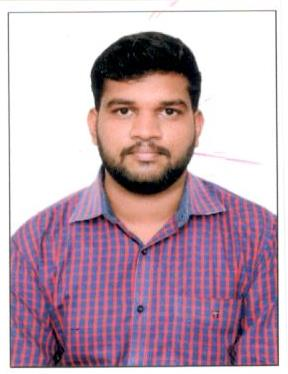
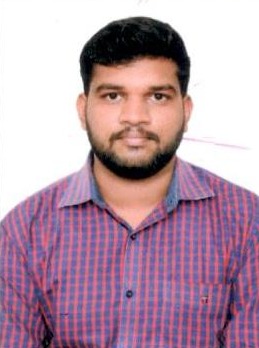
Update Profile

diff --git a/index.html b/index.html
@@ -11,9 +11,15 @@
 		<div class="hero">
 			<h1 class="name"><strong>Srikanth</strong> Mokkapati</h1>
 			<span class="job-title">Backend Developer</span>
-            <span class="email">srikanth.mokkapati9@gmail.com</span>
-            <!-- <img class="iconDetails" src="image.png" alt="Avatar"/> -->
-			<h2 class="lead">Java and Python Backend Developer mainly working on REST APIs driven Microservices</h2>
+			<span class="email">srikanth.mokkapati9@gmail.com</span>
+			<span class="middle-container">
+				<span>
+					<h2 class="lead">Java and Python Backend Developer mainly working on REST APIs driven Microservices</h2>
+				</span>
+				<span>
+					<img class="iconDetails" src="image.png" alt="Avatar"/>
+				</span>
+			</span>
         </div>
 	</div>
 
@@ -26,7 +32,7 @@
 			<div class="list-card">
 				<span class="exp">+ 2 years</span>
 				<div>
-					<h3>Object programming & frameworks</h3>
+					<h3>Programming Languages & Frameworks</h3>
 					<span>Java, Python, Spring MVC/SpringBoot, Django Rest Framework, …</span>
 				</div>
 			</div>
@@ -54,7 +60,7 @@
 				
 				<div class="list-card">
 					<div>
-						<h3>Languages and Scripting</h3>
+						<h3>Scripting</h3>
 						<span>Java, Python and Bash</span>
 					</div>
 				</div>	
@@ -68,7 +74,7 @@
                 
                 <div class="list-card">
 					<div>
-						<h3>Async</h3>
+						<h3>Async Programming</h3>
 						<span>Scheduled and Triggered Jobs, Async APIs and Servers (ASGI)</span>
 					</div>
 				</div>
@@ -81,12 +87,12 @@
 		
 		<div class="card">
 			<div class="skill-level">
-                <h2>2</h2>
+                <h2>2</h6></h2>
                 <span>+</span>
 			</div>
 
 			<div class="skill-meta">
-				<h3>IT Experience</h3>
+				<h3>Years IT Experience</h3>
 				<span>Adapting and creating solutions for Customer's needs</span>
 			</div>
 		</div>

diff --git a/styles.css b/styles.css
@@ -90,11 +90,11 @@ div , footer {
 .container {
 	max-width: 1100px;
 	height: auto;
-	margin: 60px auto;
+	margin: 30px auto;
 }
 
 .hero {
-	margin: 50px auto; 
+	margin: 30px auto; 
 	position: relative;
 }
 
@@ -120,22 +120,40 @@ h1.name {
 	display: block;
 	font-size: 24px;
 	font-weight: 300;
-	color: #81899C;
+	color: #5f6572;
 	margin-top: 10px;
 }
 
-.lead {
-	font-size: 44px;
-	font-weight: 300;
-	margin-top: 60px;
-	line-height: 55px;
+.middle-container {
+	margin: 30px auto;
+	position: relative;
+	background-color: #b8cdec;
+	display: inline-block ;
+	max-width: inherit;
+	border-radius: 10px;
 }
 
-/* .iconDetails {
-	float:right;
-	max-width: 150px;
+.lead {
+	position: relative;
+	float: left;
+	font-size: 44px;
+	font-weight: 300;
+	line-height: 55px;
+	max-width: 75%;
+	max-height: fit-content;
+	text-align: center;
+	margin: 2%;
+}
+
+.iconDetails {
+	position: relative;
+	margin: 2%;
+	float: left;
+	max-width: 25%;
 	max-height: 150px;
-}  */
+	vertical-align: middle;
+	align-content: center;
+} 
 
 /*hero ends*/
 
@@ -145,7 +163,7 @@ h1.name {
 	vertical-align: top;
 	display: inline-block;
 	width: 49.7%;
-	height: 50px;
+	height: auto
 }
 
 .section-title {
@@ -156,11 +174,12 @@ h1.name {
 
 .list-card {
 	margin: 30px 0;
+	height: 120px;
 }
 
 .list-card .exp , .list-card div{
 	display: inline-block;
-	vertical-align: top;
+	vertical-align: middle;
 }
 
 .list-card .exp {
@@ -196,12 +215,12 @@ h1.name {
 .cards {
 	max-width: 1120px;
 	display: block;
-	margin-top: 280px;
+	margin-top: 1%;
 }
 
 .card {
 	width: 47.9%;
-	height: 200px;
+	height: 250px;
 	background-color: #EEF0F7;
 	display: inline-block;
 	margin: 7px 5px;
@@ -376,11 +395,10 @@ li .description {
 
 @media(max-width: 1024px){
 	.container {
-		padding: 15px;
 		margin: 0px auto;
 	}
 	.cards {
-		margin-top: 250px;
+		margin-top: 1%;
 	}
 }
 
